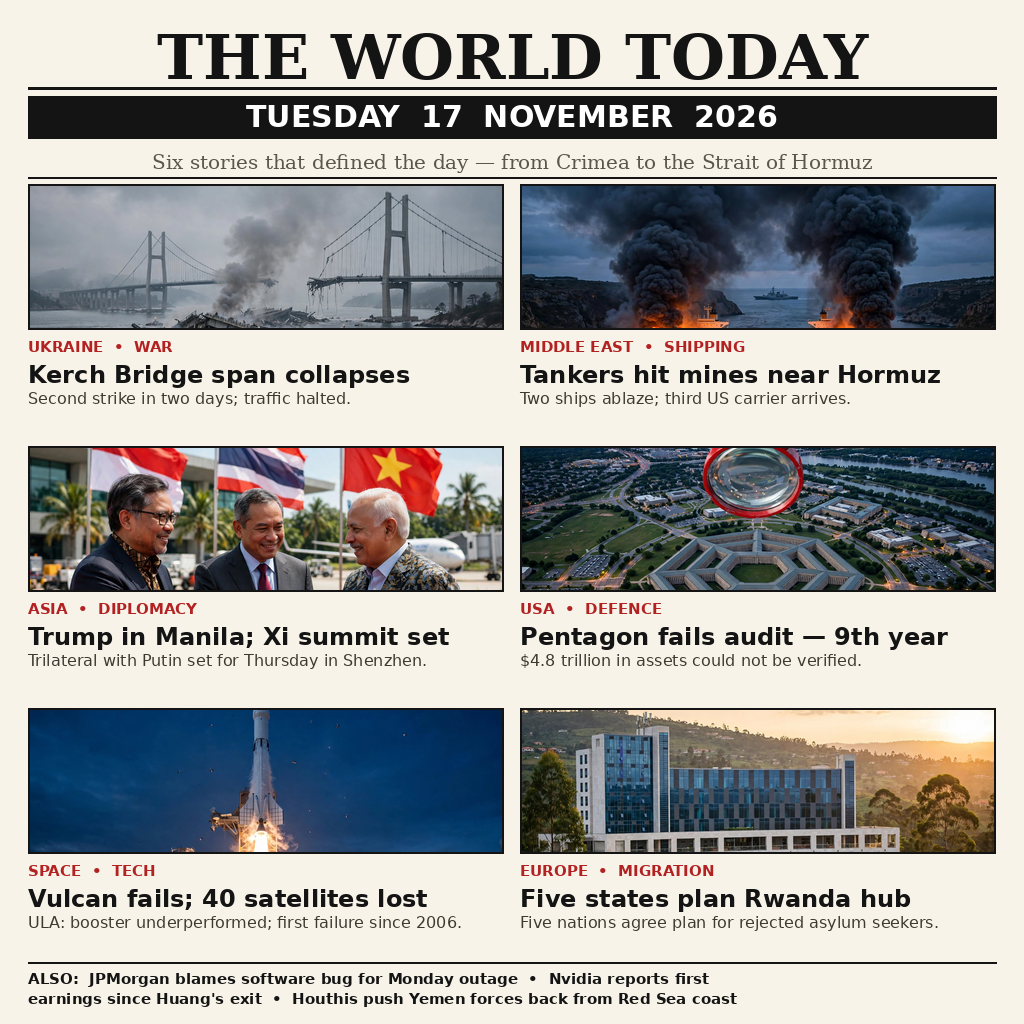
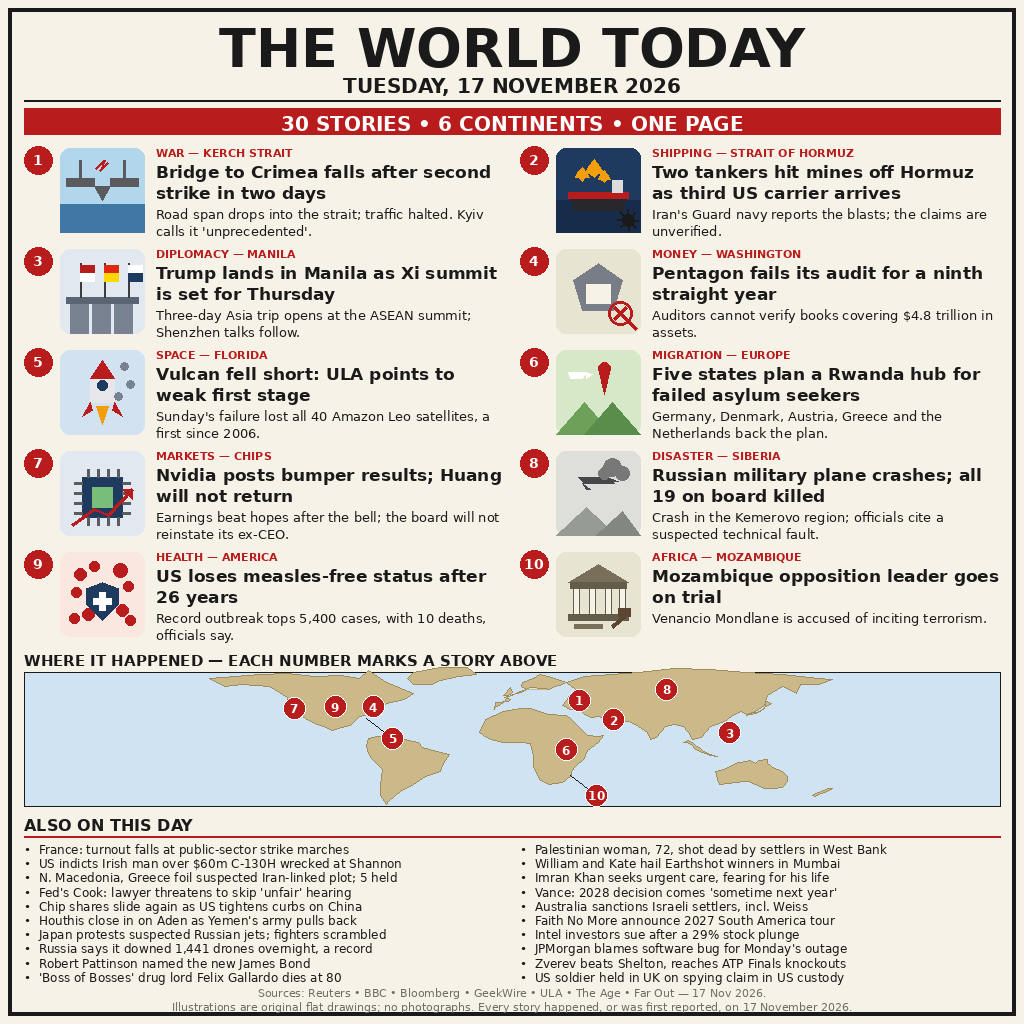
news-image-20261117: front page, 30 stories, 6 continents, one page

diff --git a/main.py b/main.py
@@ -1,33 +1,24 @@
-#!/usr/bin/env python3
-"""news-image-20261117: write the day's front-page image to the output dir.
+"""Entry point for the news-image-20261117 submission.
 
-The bundled entry.png sums up Tuesday 17 November 2026's world news as a
-newspaper front page: the Kerch Bridge collapse, tankers mined near Hormuz,
-Trump in Manila ahead of the Xi-Putin trilateral, the Pentagon's ninth
-failed audit, the Vulcan rocket failure, and Europe's Rwanda return hub.
-
-The program uses only the standard library, touches no network, and writes
-the same bytes on every run.
+The front page itself is the file entry.png next to this script; this
+program only places a copy of it where the grader expects it. It uses
+only the Python standard library, touches no network, and writes the
+exact same bytes on every run, so the two grading runs agree.
 """
-
 import os
 import shutil
-import sys
+from pathlib import Path
+
+HERE = Path(__file__).resolve().parent
+SOURCE = HERE / "entry.png"
 
 
-def main() -> int:
-    here = os.path.dirname(os.path.abspath(__file__))
-    src = os.path.join(here, "entry.png")
-    out_dir = os.environ.get("MAKEFUN_OUTPUT_DIR", "/output")
-    os.makedirs(out_dir, exist_ok=True)
-    dest = os.path.join(out_dir, "entry.png")
-    shutil.copyfile(src, dest)
-    # Confirm the copy landed before reporting success.
-    if os.path.getsize(dest) == 0:
-        print("error: entry.png copied as empty file", file=sys.stderr)
-        return 1
+def main():
+    target_dir = Path(os.environ.get("MAKEFUN_OUTPUT_DIR", "/output"))
+    target_dir.mkdir(parents=True, exist_ok=True)
+    shutil.copyfile(SOURCE, target_dir / "entry.png")
     return 0
 
 
 if __name__ == "__main__":
-    sys.exit(main())
+    raise SystemExit(main())
